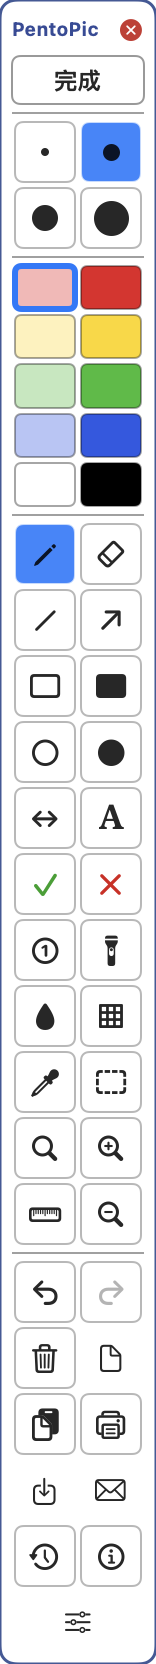
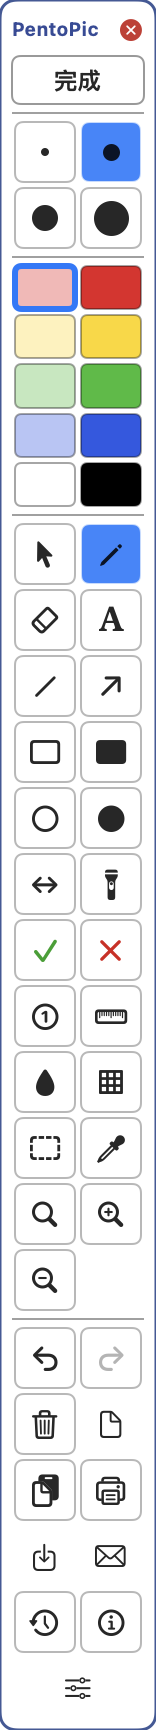
Make the pointer the default tool and put it first in the toolbar
The suggestion to "add a pointer that moves existing strokes" turned out to
describe a tool that already existed: the select tool was added in the previous
change but had no button at all. One of the string replacements that should have
inserted its toolbar row silently failed, and nothing verified the toolbar
actually contained it, so it was reachable only through the V shortcut.

The layout is now a static, testable definition and a test asserts that every
ToolKind has a button, and that the pointer is first. That check would have
caught the missing button immediately.

The pointer also becomes the tool a session opens with, configurable in
settings (pointer / last used / pen). The reasoning for the default: on a frozen
screen the first thing most people do is look around or nudge something already
there, and a pointer cannot leave marks behind if the mouse is dragged by
accident.

Toolbar rows were regrouped so the pointer leads: eraser and text, double arrow
and spotlight, number and ruler, region and eyedropper now share rows, and zoom
out sits alone on the last one.

Self-test grew from 155 to 160 checks.

diff --git a/Sources/Toolbar.swift b/Sources/Toolbar.swift
@@ -191,25 +191,44 @@ struct ToolbarView: View {
     }
 
     /// 工具槽位：固定工具，或可被右键替换的形状槽位
-    private enum ToolSlot {
+    enum ToolSlot {
         case fixed(ToolKind)
         case shape(Int)          // 索引指向 Prefs.shapeCatalog
+
+        /// 这一格实际用哪个工具（形状槽位要查表）
+        var resolved: ToolKind {
+            switch self {
+            case .fixed(let t): return t
+            case .shape(let i):
+                let slots = Prefs.shapeCatalog
+                return i < slots.count ? slots[i] : .line
+            }
+        }
     }
 
+    /// 默认布局。定义为静态常量是为了让自检能校验"每个工具都有按钮" ——
+    /// 之前选择工具就因为一次替换静默失败而根本没进工具栏，
+    /// 只能靠快捷键调用，用户找不到它。
+    static let toolRowLayout: [[ToolSlot]] = {
+        let shapes = Prefs.shapeCatalog
+        func sh(_ i: Int) -> ToolSlot { .shape(i) }
+        _ = shapes
+        return [[.fixed(.select), .fixed(.pen)],          // 指针在最前 —— 它是默认工具
+                [.fixed(.eraser), .fixed(.text)],
+                [sh(0), sh(1)],                           // 直线 / 箭头
+                [sh(3), sh(4)],                           // 矩形 / 实心矩形
+                [sh(5), sh(6)],                           // 椭圆 / 实心椭圆
+                [sh(2), .fixed(.spotlight)],              // 双向箭头 / 聚焦
+                [.fixed(.check), .fixed(.cross)],
+                [.fixed(.number), .fixed(.ruler)],        // 序号 / 标尺
+                [.fixed(.blur), .fixed(.pixelate)],
+                [.fixed(.region), .fixed(.eyedropper)],
+                [.fixed(.magnifier), .fixed(.zoomIn)],
+                [.fixed(.zoomOut)]]
+    }()
+
     /// 11 行 × 2 列。第 2–5 行是可自定义的形状槽位。
-    private var toolRows: [[ToolSlot]] {
-        [[.fixed(.pen), .fixed(.eraser)],
-         [.shape(0), .shape(1)],                      // 直线 / 箭头
-         [.shape(3), .shape(4)],                      // 矩形 / 实心矩形
-         [.shape(5), .shape(6)],                      // 椭圆 / 实心椭圆
-         [.shape(2), .fixed(.text)],                  // 双向箭头 / 文字
-         [.fixed(.check), .fixed(.cross)],
-         [.fixed(.number), .fixed(.spotlight)],
-         [.fixed(.blur), .fixed(.pixelate)],
-         [.fixed(.eyedropper), .fixed(.region)],
-         [.fixed(.magnifier), .fixed(.zoomIn)],
-         [.fixed(.ruler), .fixed(.zoomOut)]]
-    }
+    private var toolRows: [[ToolSlot]] { Self.toolRowLayout }
 
     var body: some View {
         VStack(spacing: 4) {

diff --git a/Sources/SettingsWindow.swift b/Sources/SettingsWindow.swift
@@ -22,6 +22,7 @@ final class SettingsModel: ObservableObject {
     @Published var watermark = ""
     @Published var fixedRegion = ""
     @Published var freeRegion = false
+    @Published var defaultToolMode = "select"
     @Published var frameStyle = "none"
     @Published var historyEnabled = true
     @Published var historyLimit = 20
@@ -48,6 +49,7 @@ final class SettingsModel: ObservableObject {
         watermark = Prefs.watermark
         fixedRegion = Prefs.fixedRegion
         freeRegion = Prefs.freeRegion
+        defaultToolMode = Prefs.defaultToolMode
         frameStyle = Prefs.frameStyle
         historyEnabled = Prefs.historyEnabled
         historyLimit = Prefs.historyLimit
@@ -76,6 +78,7 @@ final class SettingsModel: ObservableObject {
         Prefs.watermark = watermark
         Prefs.fixedRegion = fixedRegion
         Prefs.freeRegion = freeRegion
+        Prefs.defaultToolMode = defaultToolMode
         Prefs.frameStyle = frameStyle
         Prefs.historyEnabled = historyEnabled
         Prefs.historyLimit = historyLimit
@@ -197,6 +200,15 @@ struct SettingsView: View {
                                       text: $m.watermark)
                                 .frame(width: 230)
                                 .onSubmit { m.save() }
+                        }
+                        HStack(spacing: 8) {
+                            Text(LS("Startwerkzeug", "Tool on start", "打开会话时的工具", "開啟對話時的 tool"))
+                                .frame(width: 150, alignment: .leading)
+                            Picker("", selection: $m.defaultToolMode) {
+                                Text(LS("Zeiger (bewegen)", "Pointer (move)", "指针（移动已有标记）", "指標（移動已有標記）")).tag("select")
+                                Text(LS("Zuletzt verwendetes", "Last used", "上次使用的工具", "上次使用的工具")).tag("last")
+                                Text(LS("Stift", "Pen", "画笔", "畫筆")).tag("pen")
+                            }.labelsHidden().frame(width: 220)
                         }
                         HStack(spacing: 8) {
                             Text(LS("Bereichsgröße", "Region size", "选区尺寸", "選取範圍尺寸"))

diff --git a/Sources/SelfTest.swift b/Sources/SelfTest.swift
@@ -940,6 +940,34 @@ enum SelfTest {
 
         sc.setTool(.pen); pump(0.1); sc.setSwatch(0)
 
+        // ---- 4k. 工具栏覆盖性 ----
+        // 每个工具都必须有按钮。选择工具曾经因为一次字符串替换静默失败而根本没进工具栏，
+        // 只能靠 V 键调用 —— 用户找不到它，还以为这个功能不存在。
+        log("")
+        log("[4k] 工具栏覆盖性")
+        var placedTools = Set<ToolKind>()
+        for row in ToolbarView.toolRowLayout {
+            for slot in row { placedTools.insert(slot.resolved) }
+        }
+        let missing = ToolKind.allCases.filter { !placedTools.contains($0) }
+        check("工具栏覆盖全部 \(ToolKind.allCases.count) 个工具",
+              missing.isEmpty,
+              missing.isEmpty ? "全部覆盖" : "缺失: " + missing.map { $0.rawValue }.joined(separator: ", "))
+        check("指针排在最前（默认工具应当好找）",
+              ToolbarView.toolRowLayout.first?.first?.resolved == .select,
+              ToolbarView.toolRowLayout.first?.first?.resolved.rawValue ?? "空")
+
+        // 默认工具设置
+        let savedDefault = Prefs.defaultToolMode
+        Prefs.defaultToolMode = "select"
+        check("默认工具：指针", Prefs.initialTool == .select, Prefs.initialTool.rawValue)
+        Prefs.defaultToolMode = "pen"
+        check("默认工具：画笔", Prefs.initialTool == .pen, Prefs.initialTool.rawValue)
+        Prefs.defaultToolMode = "last"
+        Prefs.lastTool = .arrow
+        check("默认工具：上次使用", Prefs.initialTool == .arrow, Prefs.initialTool.rawValue)
+        Prefs.defaultToolMode = savedDefault
+
         // ---- 5. 撤销 ----
         log("")
         log("[5] 撤销与清空")

diff --git a/Sources/Prefs.swift b/Sources/Prefs.swift
@@ -34,6 +34,7 @@ enum Prefs {
         static let frameStyle = "frameStyle"
         static let fixedRegion = "fixedRegion"
         static let freeRegion = "freeRegion"
+        static let defaultTool = "defaultTool"
         static let language = "language"
         static let hotKeyCode = "hotKeyCode"
         static let hotKeyModifiers = "hotKeyModifiers"
@@ -71,7 +72,8 @@ enum Prefs {
             K.watermark: "",
             K.frameStyle: FrameStyle.none.rawValue,
             K.fixedRegion: "",
-            K.freeRegion: false
+            K.freeRegion: false,
+            K.defaultTool: "select"
         ])
     }
 
@@ -153,6 +155,24 @@ enum Prefs {
     static var captureCursor: Bool {
         get { d.bool(forKey: K.captureCursor) }
         set { d.set(newValue, forKey: K.captureCursor) }
+    }
+
+    /// 会话开始时的默认工具：
+    /// "select" = 指针（默认，移动/对齐已有标记）
+    /// "last"   = 上次用过的工具
+    /// "pen"    = 画笔
+    static var defaultToolMode: String {
+        get { d.string(forKey: K.defaultTool) ?? "select" }
+        set { d.set(newValue, forKey: K.defaultTool) }
+    }
+
+    /// 解析出的初始工具
+    static var initialTool: ToolKind {
+        switch defaultToolMode {
+        case "last": return lastTool
+        case "pen":  return .pen
+        default:     return .select
+        }
     }
 
     /// 固定尺寸选区，形如 "800x600"。空 = 自由拖拽。

diff --git a/Sources/Windows.swift b/Sources/Windows.swift
@@ -581,8 +581,11 @@ final class SessionController: NSObject, NSMenuDelegate {
         magnifier = MagnifierPanel()
         toast = ToastPanel()
         SettingsWindowController.shared.adaptToSession()
+        // 每次开新会话都回到用户设定的初始工具。
+        // 默认是指针：刚冻结屏幕时最可能先做的事是看看、挪一挪已有的标记，
+        // 而不是立刻落笔；指针也不会因为误拖而在画面上留下东西。
+        applyTool(Prefs.initialTool, silent: true)
         syncModel()
-        applyTool(tool, silent: true)
 
     }
 

diff --git a/README.md b/README.md
@@ -204,7 +204,7 @@ open build/*.app           # 启动
 | `⌘Z` | 撤销 | `⇧⌘Z` | 重做 |
 | `N` | 序号标注 | `S` | 聚焦高亮 |
 | `U` | 模糊打码 | `I` | 马赛克打码 |
-| `C` | 颜色吸管 | `V` | 选择与移动 |
+| `C` | 颜色吸管 | `V` | 指针（选择与移动） |
 | `⌘A` | 全选 | `⌫` | 删除选中 |
 | `⌘G` | 组合 | `⇧⌘G` | 取消组合 |
 | `↑↓←→` | 微调 1px | `⇧↑↓←→` | 微调 10px |
@@ -287,7 +287,13 @@ PentoPic/
 
 ### 选择、移动与排列
 
-选择工具（`V`）用来选中已经画好的东西：点选、`⇧` 加选、空白处拖拽框选。
+**指针是工具栏的第一个按钮，也是打开会话时的默认工具。**
+
+默认选它有两个理由：刚冻结屏幕时最可能先做的是看看、挪一挪已有的标记，而不是立刻落笔；
+而且指针不会因为误拖就在画面上留下东西。不习惯的话可以在
+**设置 → 输出效果 → 打开会话时的工具** 里改成"上次使用的工具"或"画笔"。
+
+指针（`V`）用来选中已经画好的东西：点选、`⇧` 加选、空白处拖拽框选。
 选中后可以拖动整体移动、方向键微调、删除，以及对齐 / 等距分布 / 组合 / 调整层级。
 
 **组合内的对象在选择和移动时视为一体** —— 点中任意一个就选中整组。
